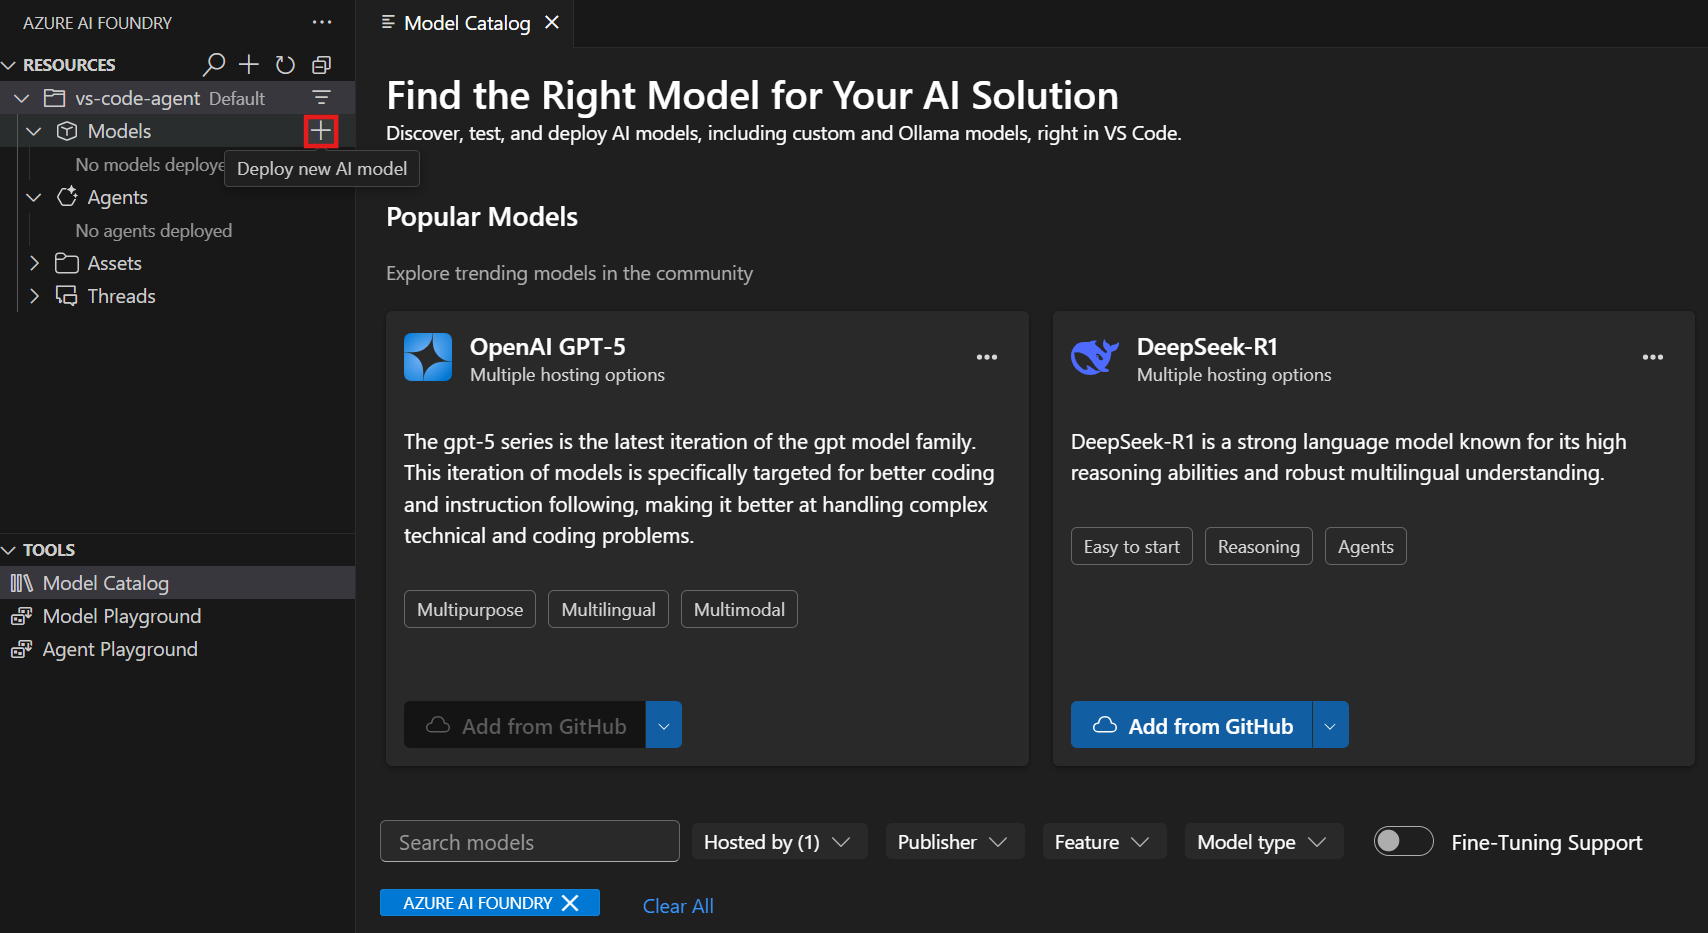
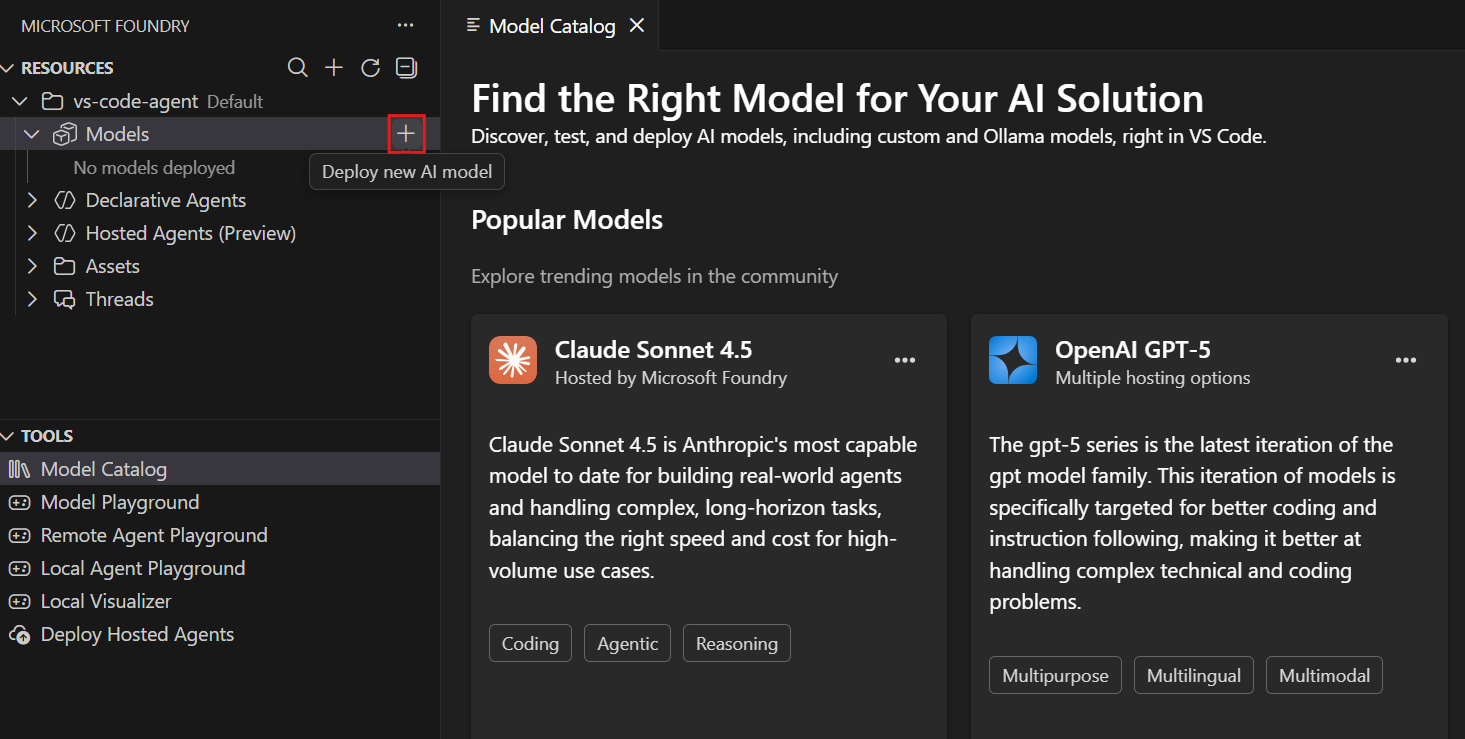
Updated instructions and screenshots

diff --git a/Instructions/07-build-agent-in-vs-code.md b/Instructions/07-build-agent-in-vs-code.md
@@ -18,7 +18,7 @@ Before starting this exercise, ensure you have:
 - Visual Studio Code installed
 - An active Azure subscription
 
-## Install the Foundry VS Code extension
+## Install the Microsoft Foundry VS Code extension
 
 Let's start by installing and setting up the VS Code extension.
 
@@ -26,9 +26,9 @@ Let's start by installing and setting up the VS Code extension.
 
 1. Select **Extensions** from the left pane (or press **Ctrl+Shift+X**).
 
-1. In the search bar, type **Foundry** and press Enter.
+1. In the search bar, type **Microsoft Foundry** and press Enter.
 
-1. Select the **Foundry** extension from Microsoft and click **Install**.
+1. Select the **Microsoft Foundry** extension from Microsoft and click **Install**.
 
 1. After installation is complete, verify the extension appears in the primary navigation bar on the left side of Visual Studio Code.
 
@@ -36,13 +36,15 @@ Let's start by installing and setting up the VS Code extension.
 
 Now you'll connect to your Azure resources and create a new AI Foundry project.
 
-1. In the VS Code sidebar, select the **Foundry** extension icon.
+1. In the VS Code sidebar, select the **Microsoft Foundry** extension icon.
 
-1. In the Azure Resources view, select **Sign in to Azure...** and follow the authentication prompts.
+1. In the Resources view, select **Sign in to Azure...** and follow the authentication prompts.
 
-1. After signing in, select your Azure subscription from the dropdown.
+   > **Note**: You won't see this option if you're already signed in.
 
 1. Create a new Foundry project by selecting the **+** (plus) icon next to **Resources** in the Foundry Extension view.
+
+1. Select your Azure subscription from the dropdown.
 
 1. Choose whether to create a new resource group or use an existing one:
    
@@ -64,21 +66,21 @@ You'll need a deployed model to use with your agent.
 
 1. When the "Project deployed successfully" popup appears, select the **Deploy a model** button. This opens the Model Catalog.
 
-   > **Tip**: You can also access the Model Catalog by selecting the **+** icon next to **Models** in the Resources section, or by pressing **F1** and running the command **Foundry: Open Model Catalog**.
+   > **Tip**: You can also access the Model Catalog by selecting the **+** icon next to **Models** in the Resources section, or by pressing **F1** and running the command **Microsoft Foundry: Open Model Catalog**.
 
-1. In the Model Catalog, locate the **gpt-4o** model (you can use the search bar to find it quickly).
+1. In the Model Catalog, locate the **gpt-4** model (you can use the search bar to find it quickly).
 
     ![Screenshot of the Model Catalog in the Foundry VS Code extension.](Media/vs-code-model.png)
 
-1. Select **Deploy in Azure** next to the gpt-4o model.
+1. Select **Deploy** next to the gpt-4 model.
 
 1. Configure the deployment settings:
-   - **Deployment name**: Enter a name like "gpt-4o-deployment"
+   - **Deployment name**: Enter a name like "gpt-4-deployment"
    - **Deployment type**: Select **Global Standard** (or **Standard** if Global Standard is not available)
    - **Model version**: Leave as default
    - **Tokens per minute**: Leave as default
 
-1. Select **Deploy in Foundry** in the bottom-left corner.
+1. Select **Deploy in Microsoft Foundry** in the bottom-left corner.
 
 1. In the confirmation dialog, select **Deploy** to deploy the model.
 
@@ -86,23 +88,22 @@ You'll need a deployed model to use with your agent.
 
 ## Create an AI agent with the designer view
 
-Now you'll create an AI agent using the visual designer interface.
+Now you'll create an AI agent using the visual designer interface. Rather than writing code, you'll configure the agent's instructions, settings, and tools through the user interface.
 
-1. In the Foundry extension view, find the **Resources** section.
+1. In the Microsoft Foundry extension view, find the **Resources** section.
 
-1. Select the **+** (plus) icon next to the **Agents** subsection to create a new AI Agent.
+1. Select the **+** (plus) icon next to the **Declarative Agents** subsection to create a new AI Agent.
 
-    ![Screenshot of an creating an agent in the Foundry VS Code extension.](Media/vs-code-new-agent.png)
+    ![Screenshot of an creating an agent in the Microsoft Foundry VS Code extension.](Media/vs-code-new-agent.png)
 
 1. Choose a location to save your agent files when prompted.
 
-1. The agent designer view will open along with a `.yaml` configuration file.
+1. A **New Agent** tab will open to an "Agent Preferences" editor, along with a `.yaml` configuration file.
 
 ### Configure your agent in the designer
 
-1. In the agent designer, configure the following fields:
+1. In the agent preferences, configure the following fields:
    - **Name**: Enter a descriptive name for your agent (e.g., "data-research-agent")
-   - **Description**: Add a description explaining the agent's purpose
    - **Model**: Select your GPT-4o deployment from the dropdown
    - **Instructions**: Enter system instructions such as:
      ```
@@ -129,17 +130,17 @@ You'll now add a Model Context Protocol (MCP) server tool that allows your agent
 
 1. Select the **Create tool** button to add the tool to your agent.
 
-## Deploy your agent to Foundry
+## Deploy your agent to Microsoft Foundry
 
-1. In the designer view, select the **Create on Foundry** button in the bottom-left corner.
+1. In the agent designer view, select the **Create Agent on Microsoft Foundry** button in the bottom-left corner.
 
 1. Wait for the deployment to complete.
 
-1. In the VS Code navbar, refresh the **Azure Resources** view. Your deployed agent should now appear under the **Agents** subsection.
+1. In the VS Code navbar, refresh the **Resources** view. Your deployed agent should now appear under the **Declarative Agents** subsection.
 
 ## Test your agent in the playground
 
-1. Right-click on your deployed agent in the **Agents** subsection.
+1. Right-click on your deployed agent in the **Declarative Agents** subsection.
 
 1. Select **Open Playground** from the context menu.
 
